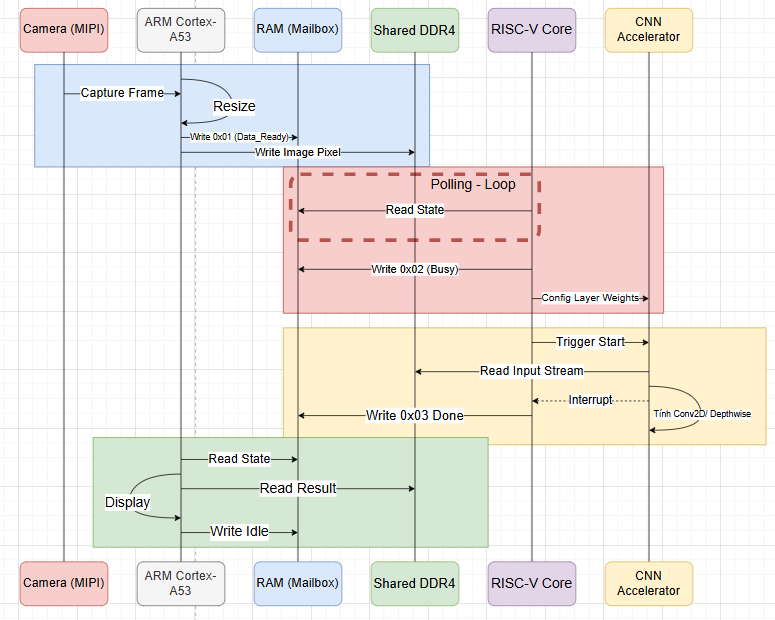
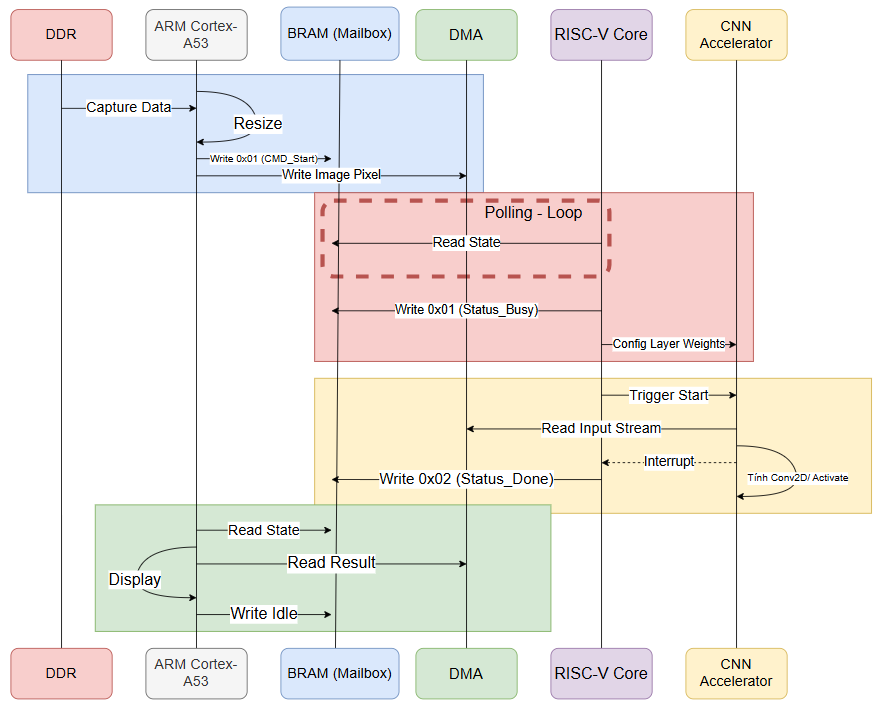
m

Changed region(s): [[0.0, 0.0, 0.991, 1.0]]

diff --git a/docs/reports/chapter01/chapter01.tex b/docs/reports/chapter01/chapter01.tex
@@ -20,7 +20,7 @@ Các mục tiêu cụ thể bao gồm:
 
     \item \textbf{Phát triển Firmware và Quy trình Đồng thiết kế (HW/SW Co-design):} Phát triển phần mềm quản lý lớp ứng dụng trên hệ điều hành Linux (Host) và tối ưu hóa firmware C bare-metal cho lõi RISC-V. Ứng dụng các tập lệnh mở rộng để thực thi hiệu quả các phép toán ma trận của mạng CNN nhằm giảm tải cho vi xử lý trung tâm.
 
-    \item \textbf{Pipeline huấn luyện và biên dịch mô hình:} Xây dựng pipeline huấn luyện mạng \texttt{vgg-tiny} INT8 trên Host PC (Google Colab + Tesla T4 GPU), kết hợp với trình biên dịch tự sinh layer table (\texttt{layer\_table.h}) và blob trọng số (\texttt{weights.bin}) -- cho phép thay đổi mô hình AI mà không cần tổng hợp lại RTL. Phạm vi đồ án sử dụng tập \textit{Cats vs Dogs} (Kaggle, 25{,}000 ảnh) cho task phân loại nhị phân; tập \textit{INRIA Person} được dự kiến cho hướng phát triển mở rộng sang task phát hiện đối tượng (object detection).
+    \item \textbf{Pipeline huấn luyện và biên dịch mô hình:} Xây dựng pipeline huấn luyện mạng \texttt{vgg-tiny} INT8 trên Host PC, kết hợp với trình biên dịch tự sinh layer table (\texttt{layer\_table.h}) và blob trọng số (\texttt{weights.bin}) -- cho phép thay đổi mô hình AI mà không cần tổng hợp lại RTL. Pipeline hỗ trợ hai dataset chuẩn: Cats vs Dogs (Kaggle) và INRIA Person.
 
     \item \textbf{Tích hợp và Đánh giá hệ thống:} Triển khai toàn bộ nền tảng và kiểm chứng bằng pipeline phân loại nhị phân (binary classification) với mô hình \texttt{vgg-tiny} (5 conv layer, INT8) trên ảnh tĩnh đọc từ thẻ nhớ SD. Đánh giá nền tảng dựa trên các tiêu chí: độ chính xác phân loại, độ trễ inference, tài nguyên FPGA tiêu thụ (LUT, FF, BRAM, DSP), công suất tiêu thụ và khả năng mở rộng cho các mô hình lớn hơn ở các pha sau.
 \end{itemize}
@@ -67,7 +67,7 @@ Do sự phức tạp của việc thiết kế hệ thống SoC tích hợp AI v
 
     \item \textbf{Phạm vi thuật toán và mô hình AI:} Việc xây dựng và huấn luyện mô hình (Training) được thực hiện Offline trên máy tính cá nhân sử dụng framework TensorFlow. Hệ thống phần cứng trên FPGA chỉ đảm nhận nhiệm vụ suy luận (Inference) dựa trên bộ trọng số đã được lượng tử hóa. Nhằm đảm bảo tính tối ưu của kiến trúc, đề tài chỉ tập trung gia tốc cho họ mạng Nơ-ron Tích chập (CNN - Convolutional Neural Network), không hỗ trợ các kiến trúc mạng hồi quy (RNN/LSTM) hoặc mô hình ngôn ngữ lớn (LLM/Transformer).
 
-    \item \textbf{Phạm vi kịch bản ứng dụng (Use-case) và Dữ liệu:} Hệ thống được kiểm chứng thông qua bài toán cốt lõi của Thị giác máy tính (Computer Vision) tại biên là phân loại ảnh nhị phân (Binary Image Classification), cụ thể với tập dữ liệu \textit{Cats vs Dogs} (Microsoft Asirra, 25{,}000 ảnh) -- ảnh tĩnh đọc từ thẻ nhớ. Việc mở rộng sang phát hiện đối tượng (Object Detection -- Human Detection trên INRIA Person), xử lý video thời gian thực độ phân giải cao (HD/Full HD), hay các loại tín hiệu âm thanh/văn bản được dự kiến cho các pha phát triển sau.
+    \item \textbf{Phạm vi kịch bản ứng dụng (Use-case) và Dữ liệu:} Hệ thống được kiểm chứng thông qua các bài toán cốt lõi của Thị giác máy tính (Computer Vision) tại biên, bao gồm Phân loại ảnh (Image Classification) với các tập dữ liệu tiêu chuẩn (Fashion-MNIST/CIFAR-10) và Phát hiện đối tượng (Object Detection, cụ thể là Human Detection). Đề tài chưa mở rộng sang xử lý video thời gian thực độ phân giải cao (HD/Full HD) hay các loại tín hiệu âm thanh/văn bản.
 
     \item \textbf{Kiến trúc gia tốc và khả năng xử lý:} Bộ tăng tốc phần cứng được thiết kế với kiến trúc bộ đệm vòng (Circular Line Buffer) linh hoạt. Phần cứng hỗ trợ xử lý kích thước ảnh thay đổi tại thời gian thực (Runtime Configurable) thông qua cấu hình từ CPU ARM. Kích thước tối đa được hỗ trợ là 224x224 pixel (chuẩn của mạng VGG/ResNet) và hỗ trợ tương thích ngược với các độ phân giải thấp hơn (ví dụ 128x128 pixel) nhằm tối ưu điện năng tiêu thụ cho các ứng dụng Edge AI.
 
@@ -77,27 +77,21 @@ Do sự phức tạp của việc thiết kế hệ thống SoC tích hợp AI v
 \newpage
 \section{Cấu trúc báo cáo}
 
-Báo cáo được tổ chức và trình bày theo trình tự logic gồm 7 chương, cụ thể như sau:
+Báo cáo được tổ chức và trình bày theo trình tự logic gồm 5 chương, cụ thể như sau:
 
 \begin{itemize}
     \item \textbf{Chương 1. Giới thiệu đề tài:} \\
     Trình bày tổng quan về bối cảnh nghiên cứu, tính cấp thiết của việc phát triển Edge AI trên nền tảng phần cứng mở. Chương này cũng xác định rõ mục tiêu cốt lõi mà đề tài hướng tới, phạm vi nghiên cứu và tóm tắt bố cục của bài báo cáo.
 
-    \item \textbf{Chương 2. Cơ sở lý thuyết:} \\
-    Hệ thống hóa các kiến thức nền tảng cần thiết cho việc thực hiện đồ án, bao gồm: kiến trúc tập lệnh RISC-V (RV32I + các phần mở rộng M/C/V) và lõi softcore CV32E40P, cấu trúc phần cứng FPGA Zynq UltraScale+ trên Kria KV260, chuẩn giao tiếp AMBA AXI4 (Lite/Full/Stream), lý thuyết về Mạng nơ-ron tích chập (CNN) và kỹ thuật lượng tử hóa INT8 theo chuẩn TFLite của Jacob et al.
+    \item \textbf{Chương 2. Cơ sở lý thuyết và Các công trình liên quan:} \\
+    Hệ thống hóa các kiến thức nền tảng cần thiết cho việc thực hiện đồ án, bao gồm: kiến trúc tập lệnh RISC-V, cấu trúc phần cứng FPGA (cụ thể là dòng Zynq UltraScale+), lý thuyết về Mạng nơ-ron tích chập (CNN) và chuẩn giao tiếp AXI4. Đồng thời, chương này cũng tổng hợp và phân tích các công trình nghiên cứu liên quan đã công bố để làm rõ vị trí và đóng góp của đề tài.
 
-    \item \textbf{Chương 3. Các công trình liên quan:} \\
-    Tổng hợp và phân tích các framework gia tốc CNN trên FPGA hiện có (Vitis AI DPU, FINN, hls4ml, CFU Playground), so sánh hai trường phái loosely-coupled và tightly-coupled accelerator để làm rõ vị trí và đóng góp của đề tài trong không gian thiết kế hiện tại.
+    \item \textbf{Chương 3. Đề xuất thiết kế hệ thống:} \\
+    Mô tả chi tiết kiến trúc hệ thống SoC đề xuất, bao gồm sơ đồ khối tổng quát, phương án thiết kế các khối chức năng (IP Cores), chiến lược phân chia tác vụ giữa phần cứng/phần mềm (HW/SW Partitioning) và sơ đồ tổ chức bộ nhớ.
 
-    \item \textbf{Chương 4. Thiết kế kiến trúc hệ thống:} \\
-    Mô tả chi tiết kiến trúc SoC dị thể (heterogeneous) gồm 3 tầng (HW/SW/App), bản đồ bộ nhớ (memory map) thống nhất giữa ARM và RISC-V, kiến trúc Dual-Port BRAM cho mô hình bộ nhớ Harvard, thiết kế bộ tăng tốc \texttt{conv\_cnn} v2.0 (line buffer + 9 PE MAC + requantize Q31), kiến trúc Tiny-VGG (5 conv $3\times3$, INT8) và luồng inference 4 pha (ARM prep $\rightarrow$ kick $\rightarrow$ RISC-V duyệt layers $\rightarrow$ postprocess).
+    \item \textbf{Chương 4. Hiện thực mô hình CNN đơn giản:} \\
+    Trình bày quá trình xây dựng, huấn luyện và lượng tử hóa một mô hình CNN cơ bản (dựa trên tập dữ liệu Fashion-MNIST/CIFAR-10). Chương này cũng mô tả việc hiện thực mô hình tham chiếu để kiểm chứng giải thuật trước khi đưa xuống phần cứng.
 
-    \item \textbf{Chương 5. Hiện thực và kiểm thử hệ thống:} \\
-    Trình bày quá trình hiện thực hóa thiết kế: pipeline huấn luyện 8 bước trên Jupyter notebook, lượng tử hóa PTQ INT8 và emit \texttt{layer\_table.h} + \texttt{weights.bin}, hiện thực Conv-CNN v2.0 (7 module RTL), tinh chỉnh CV32E40P và cầu OBI$\to$AXI, firmware bare-metal C, host PYNQ runtime, tích hợp Vivado Block Design, và quy trình kiểm thử nhiều tầng (unit TB $\rightarrow$ IP TB $\rightarrow$ golden vector $\rightarrow$ on-board).
-
-    \item \textbf{Chương 6. Kết quả:} \\
-    Trình bày kết quả định lượng: độ chính xác Tiny-VGG trên \textit{Cats vs Dogs} (FP32/INT8), báo cáo tổng hợp Vivado (tài nguyên, timing, công suất), phân tích latency theo layer ở 100~MHz, và bảng so sánh đa chiều với các framework liên quan.
-
-    \item \textbf{Chương 7. Kết luận và Hướng phát triển:} \\
-    Tổng kết các kết quả đã đạt được, phân tích những hạn chế kỹ thuật còn tồn tại. Đề xuất lộ trình phát triển 3 cấp (Tier~A: nâng cấp hiệu năng inference, Tier~B: mở rộng task và op support, Tier~C: hệ điều hành và UX) cho các pha tiếp theo của đề tài.
+    \item \textbf{Chương 5. Kết luận và Hướng phát triển:} \\
+    Tổng kết các kết quả đã đạt được trong giai đoạn 1, phân tích những hạn chế và khó khăn kỹ thuật còn tồn tại. Từ đó, đề xuất lộ trình cụ thể cho giai đoạn 2, tập trung vào việc hoàn thiện tích hợp hệ thống và tối ưu hóa hiệu năng trên FPGA.
 \end{itemize}

diff --git a/docs/reports/chapter04/chapter04.tex b/docs/reports/chapter04/chapter04.tex
@@ -53,8 +53,8 @@ Firmware Subsystem: Chứa mã nguồn Bare-metal tối ưu hóa cho RISC-V, bao
 \subsection{layer 3: application layer}
 Đây là tầng cao nhất, quy định kịch bản sử dụng thực tế của hệ thống. 
 \begin{itemize}
-    \item \textbf{Ứng dụng kiểm chứng (Use-case):} Hiện tại, tầng này thực thi cấu trúc mạng \textbf{Tiny-VGG} (5 lớp Conv $3\times3$ stride-1 valid padding, lượng tử hóa INT8) để giải quyết bài toán phân loại nhị phân (binary classification) trên tập dữ liệu \textit{Cats vs Dogs} (Microsoft Asirra, 25{,}000 ảnh tải qua Kaggle). Việc lựa chọn Tiny-VGG thay vì các kiến trúc lớn hơn (MobileNet, ResNet) xuất phát từ ràng buộc của bộ tăng tốc Conv-CNN v2.0 hiện tại -- chỉ hỗ trợ Conv $3\times3$ stride-1 valid padding, chưa hỗ trợ depthwise / batch normalization / residual connection. Đây là đánh đổi có chủ đích: hi sinh phạm vi mô hình để đạt được toàn quyền kiểm soát pipeline phần cứng (xem Chương~\ref{chp:03}).
-    \item \textbf{Tính linh hoạt trong cùng miền ứng dụng (Domain-Specific Flexibility):} Nhờ thiết kế phân lớp, người dùng có thể dễ dàng chuyển đổi hệ thống sang các bài toán phân loại nhị phân khác trong cùng lĩnh vực thị giác máy tính (ví dụ: nhận diện biển báo giao thông, phân loại khiếm khuyết sản phẩm) chỉ bằng cách thay tập dữ liệu huấn luyện, sinh lại \texttt{layer\_table.h} + \texttt{weights.bin}, và recompile firmware -- hoàn toàn không cần can thiệp hay tổng hợp lại kiến trúc vật lý ở Layer 1. Việc mở rộng sang phát hiện đối tượng (object detection) hoặc các kiến trúc lớn hơn được dự kiến trong các pha mở rộng (xem Chương~\ref{chp:conclusion}).
+    \item \textbf{Ứng dụng kiểm chứng (Use-case):} Hiện tại, tầng này đang thực thi cấu trúc mạng \textbf{MobileNetV2} (lượng tử hóa INT8) để giải quyết bài toán phát hiện người (Human Detection) trên tập dữ liệu INRIA.
+    \item \textbf{Tính linh hoạt trong cùng miền ứng dụng (Domain-Specific Flexibility):} Nhờ thiết kế phân lớp, người dùng có thể dễ dàng chuyển đổi hệ thống sang giải quyết bài toán khác trong cùng lĩnh vực thị giác máy tính (ví dụ: chuyển từ MobileNet sang nhận diện biển báo giao thông bằng kiến trúc CNN khác). Việc này chỉ yêu cầu cập nhật tệp trọng số và mã nguồn Firmware (C/C++) ở Layer 2, mà hoàn toàn không cần can thiệp hay tổng hợp lại kiến trúc vật lý ở Layer 1.
 \end{itemize}
 
 \section{kiến trúc dị thể}
@@ -207,7 +207,7 @@ Hệ thống được thiết kế với hai kênh giao tiếp vật lý tách b
 \begin{itemize}
     \item \textbf{Giao thức:} AXI4-Full 128-bit.
     \item \textbf{Mục đích:} Tối ưu hóa băng thông (Throughput).
-    \item \textbf{Chức năng:} Hỗ trợ cơ chế \textit{Burst Transaction}, cho phép uDMA đọc/ghi liên tiếp tới 256 gói dữ liệu chỉ với một địa chỉ bắt đầu. Điều này cực kỳ quan trọng để cung cấp đủ băng thông pixel/trọng số cho bộ tăng tốc Conv-CNN, đặc biệt khi mở rộng lên các kiến trúc CNN sâu hơn ở các pha phát triển tiếp theo.
+    \item \textbf{Chức năng:} Hỗ trợ cơ chế \textit{Burst Transaction}, cho phép uDMA đọc/ghi liên tiếp tới 256 gói dữ liệu chỉ với một địa chỉ bắt đầu. Điều này cực kỳ quan trọng để đảm bảo cung cấp đủ dữ liệu pixel cho mạng MobileNet hoạt động thời gian thực (Real-time).
 \end{itemize}
 
 \subsection{Quy hoạch không gian bộ nhớ (System Memory Map)}
@@ -333,8 +333,8 @@ Nằm trong PL, khối tăng tốc CNN được thiết kế để thực hiện
 một cách song song và hiệu quả. Thiết kế này bao gồm các thành phần chính \cite{fpga2}
 \label{sec:cnn_accelerator}
 
-Đây là thành phần cốt lõi quyết định hiệu năng của toàn bộ hệ thống Edge-AI.
-Để đáp ứng yêu cầu tính toán hiệu quả các phép tích chập của mạng \texttt{Tiny-VGG} (5 lớp Conv $3\times3$ INT8), nhóm thực hiện thiết kế một bộ tăng tốc phần cứng chuyên dụng (Domain-Specific Architecture -- DSA) tên là \texttt{conv\_cnn} v2.0, được tích hợp trong miền Logic khả trình (PL). Kiến trúc được thiết kế tổng quát ở mức tham số (\texttt{MAX\_WIDTH}, \texttt{MAX\_CIN}, \texttt{MAX\_COUT} trong package \texttt{conv\_pkg.sv}), cho phép scale lên các mạng lớn hơn (VGG11, ResNet18) ở các pha mở rộng mà không cần thay đổi datapath cốt lõi.
+Đây là thành phần cốt lõi quyết định hiệu năng của toàn bộ hệ thống Edge-AI. 
+Để đáp ứng yêu cầu tính toán thời gian thực của mạng MobileNetV1, nhóm thực hiện thiết kế một bộ tăng tốc phần cứng chuyên dụng (Domain-Specific Architecture - DSA) được tích hợp trong miền Logic khả trình (PL).
 Khối tăng tốc này được thiết kế để giảm tải (offload) các phép toán tích 
 chập nặng nề nhất khỏi vi xử lý RISC-V, hoạt động theo cơ chế dòng dữ liệu 
 (Dataflow) để tối đa hóa thông lượng.

diff --git a/docs/reports/title.tex b/docs/reports/title.tex
@@ -40,7 +40,7 @@
 \titlestyle\bfseries\LARGE phát triển platform edge-ai dựa trên fpga sử dụng risc-v\\
 \vspace{1cm}
 \large\titlestyle Ngành: KỸ THUẬT MÁY TÍNH\\
-\titlestyle Hội đồng: xx
+\titlestyle Hội đồng: L2
 \makeatother}
 
 \vspace{0.75cm}
@@ -50,9 +50,9 @@
 \hspace{1cm}
 & \hspace{-0.5 cm} \vspace{0.25cm} \textbf{Người hướng dẫn}: &\\
 & PGS. TS. Phạm Quốc Cường &- Trường ĐHBK\\
-\vspace{0.25cm} & <Name> &- <affiliation>\\ 
+\vspace{0.25cm} & CN. Nguyễn Thành Lộc &- Trường ĐHBK\\ 
 & \hspace{-0.5 cm} \vspace{0.25cm} \textbf{Người Phản biên}: &\\
-\vspace{0.25cm} & Assoc. Prof. Dr. <name> &- HCMUT\\
+\vspace{0.25cm} & PGS. TS. Trần Ngọc Thịnh &- HCMUT\\
 & \hspace{-0.5 cm} \vspace{0.25cm} \textbf{Sinh viên thực hiện}: &\\
 \vspace{0.25cm} & Nguyễn Trung Tân &- 2213063\\
 \vspace{0.25cm} & Trần Minh Tâm &- 2213039\\
